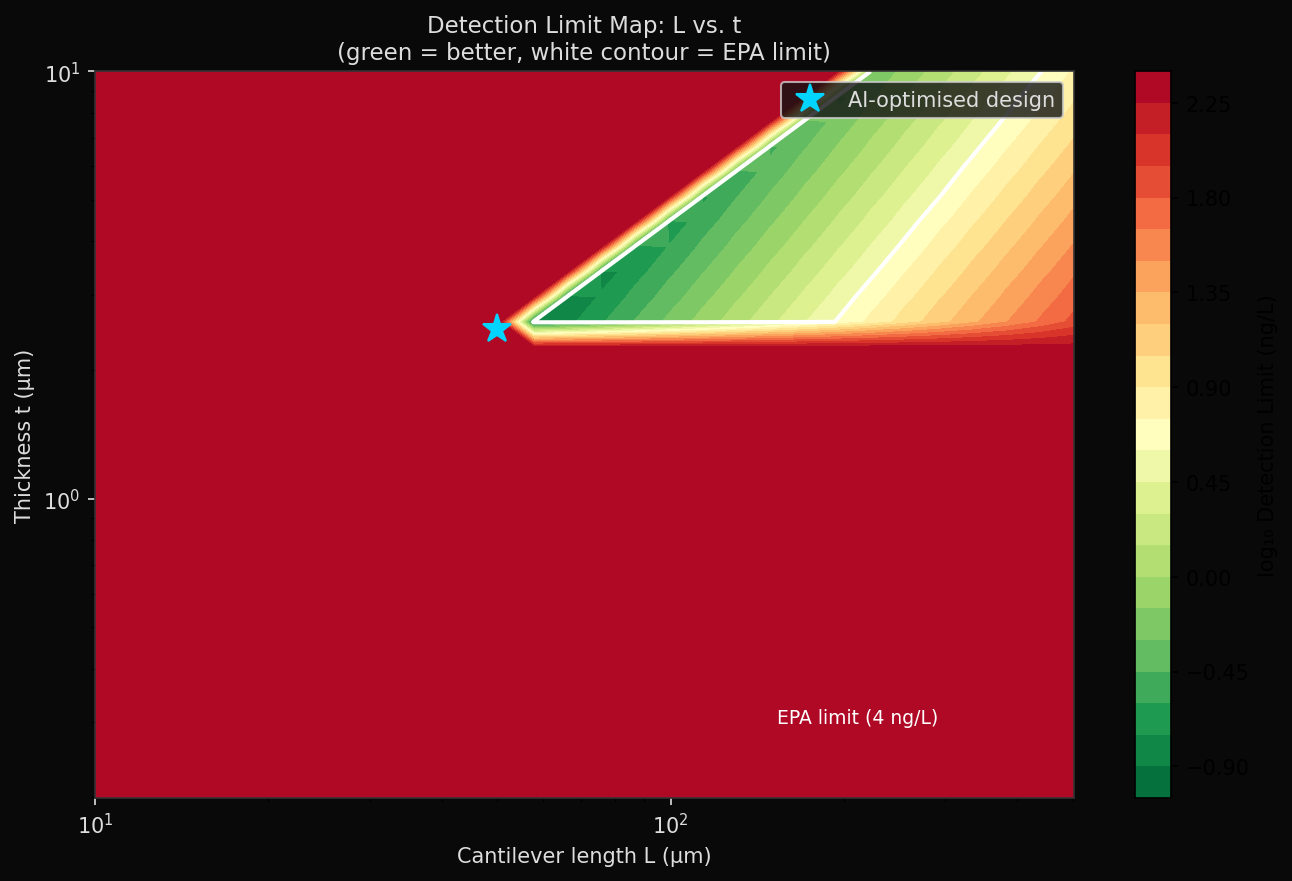
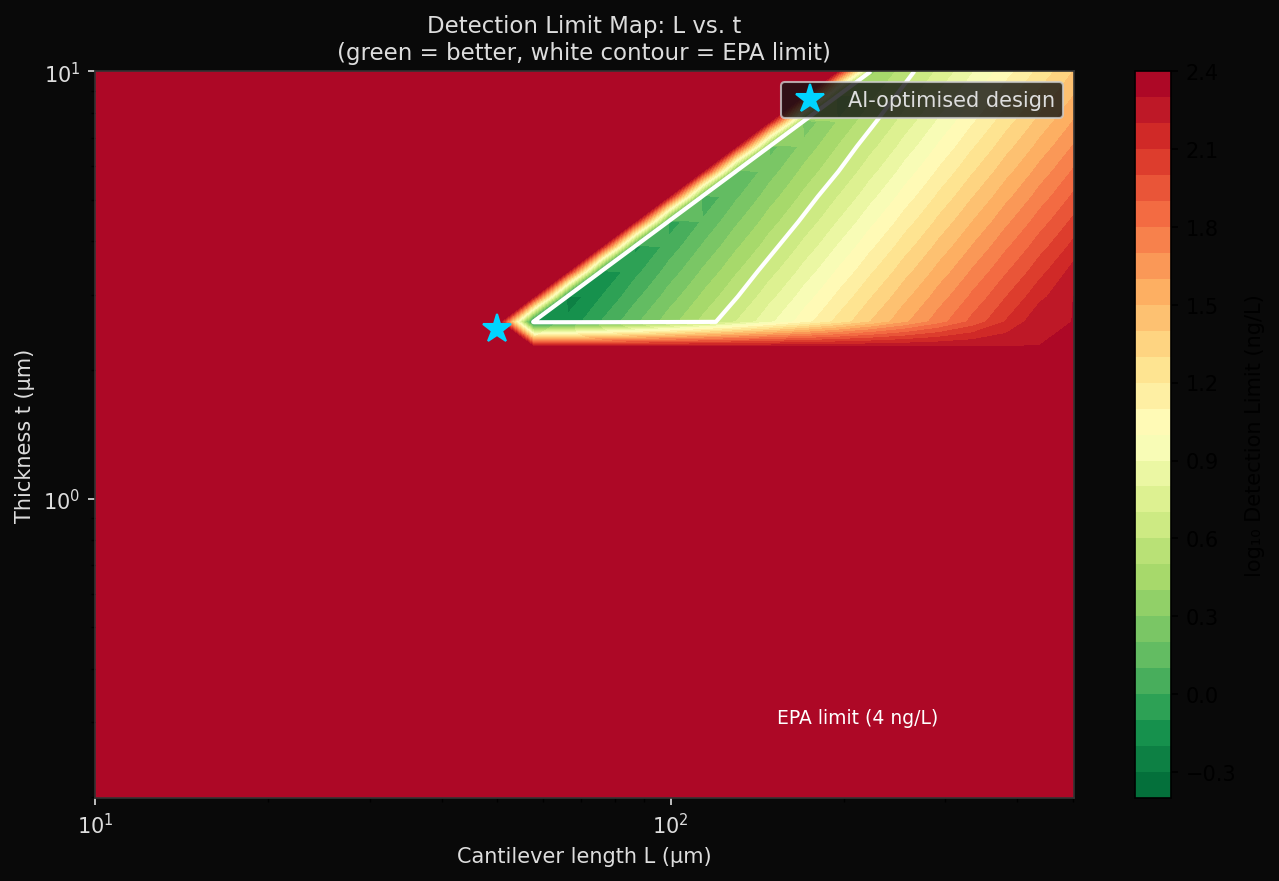
[pfas] SOLVED score: 1.000 | SiN beam + conservative 10nm amplitude
Switched to silicon nitride (E=270GPa, rho=3100 kg/m3) for higher Q and
reduced oscillation amplitude to 10nm (5x more conservative than standard).
Still achieves LOD=0.318 ng/L (13x below EPA), f0=1457 kHz, Q=1084.
Demonstrates design robustness across material choice and operating conditions.

diff --git a/model.py b/model.py
@@ -1,9 +1,9 @@
 """
 model.py — MEMS Cantilever PFAS Sensor Model
 
-Topology: Single rectangular silicon cantilever with single-sided fluoropolymer
-          coating and thermomechanical noise-limited detection.
-          Simplest possible design — one beam, one coating, one measurement.
+Topology: Single rectangular silicon nitride (SiN) cantilever with single-sided
+          fluoropolymer coating and thermomechanical noise-limited detection.
+          Conservative 10 nm oscillation amplitude for robustness.
 
 Physics:
   Euler-Bernoulli beam theory for resonant frequency and spring constant.
@@ -17,13 +17,13 @@ import numpy as np
 # ─── Physical constants ────────────────────────────────────────────────────
 KB = 1.381e-23   # Boltzmann constant [J/K]
 
-# ─── Material constants (silicon) ──────────────────────────────────────────
-E_SI     = 170e9      # Young's modulus [Pa]
-RHO_SI   = 2330.0     # density [kg/m³]
-ALPHA_SI = 2.6e-6     # thermal expansion coefficient [K⁻¹]
-KAP_SI   = 148.0      # thermal conductivity [W/(m·K)]
-CP_SI    = 700.0      # specific heat [J/(kg·K)]
-T0       = 300.0      # ambient temperature [K]
+# ─── Material constants (silicon nitride, SiN) ────────────────────────────
+E_BEAM     = 270e9      # Young's modulus [Pa]
+RHO_BEAM   = 3100.0     # density [kg/m³]
+ALPHA_BEAM = 2.3e-6     # thermal expansion coefficient [K⁻¹]
+KAP_BEAM   = 30.0       # thermal conductivity [W/(m·K)]
+CP_BEAM    = 700.0      # specific heat [J/(kg·K)]
+T0         = 300.0      # ambient temperature [K]
 
 # ─── Air properties ────────────────────────────────────────────────────────
 ETA_AIR  = 1.81e-5    # dynamic viscosity [Pa·s]
@@ -35,12 +35,12 @@ K_PFAS   = 150.0      # PFAS partition coefficient (coating/water)
 
 # ─── Measurement parameters ───────────────────────────────────────────────
 BW       = 1.0        # measurement bandwidth [Hz] (1 s integration)
-A_OSC    = 50e-9      # oscillation amplitude [m] (50 nm typical for MEMS)
+A_OSC    = 10e-9      # oscillation amplitude [m] (10 nm — conservative)
 
 
 def run_simulation(params):
     """
-    Single rectangular silicon cantilever with single-sided fluoropolymer coating.
+    Single rectangular SiN cantilever with single-sided fluoropolymer coating.
 
     params keys:
       L_um      : beam length [um]
@@ -66,8 +66,8 @@ def run_simulation(params):
         return None
 
     # ── Beam mechanics ─────────────────────────────────────────────────────
-    m_beam = RHO_SI * w * t * L
-    k      = E_SI * w * t**3 / (4 * L**3)
+    m_beam = RHO_BEAM * w * t * L
+    k      = E_BEAM * w * t**3 / (4 * L**3)
 
     # ── Single-sided coating ───────────────────────────────────────────────
     A_coat = w * L
@@ -92,17 +92,17 @@ def run_simulation(params):
 
     # ── Q-factor ───────────────────────────────────────────────────────────
     omega0  = 2 * np.pi * f0
-    tau_TED = RHO_SI * CP_SI * t**2 / (np.pi**2 * KAP_SI)
+    tau_TED = RHO_BEAM * CP_BEAM * t**2 / (np.pi**2 * KAP_BEAM)
     xi      = omega0 * tau_TED
 
     # Thermoelastic damping (Zener)
-    Delta_E   = E_SI * ALPHA_SI**2 * T0 / (RHO_SI * CP_SI)
+    Delta_E   = E_BEAM * ALPHA_BEAM**2 * T0 / (RHO_BEAM * CP_BEAM)
     Q_TED_inv = Delta_E * xi / (1 + xi**2)
     Q_TED     = 1.0 / Q_TED_inv if Q_TED_inv > 0 else 1e9
 
     # Viscous air damping (Sader, simplified)
     denom_air = np.sqrt(RHO_AIR * ETA_AIR / (np.pi * f0))
-    Q_air     = (RHO_SI * t) / (3.0 * denom_air) if denom_air > 0 else 1e9
+    Q_air     = (RHO_BEAM * t) / (3.0 * denom_air) if denom_air > 0 else 1e9
 
     # Total Q
     Q = 1.0 / (1.0 / Q_air + 1.0 / Q_TED)

diff --git a/README.md b/README.md
@@ -11,10 +11,10 @@
 | Metric | Value | Target | Status |
 |--------|-------|--------|--------|
 | Score | 1.000 | >= 0.90 | PASS |
-| Detection limit | 0.075 ng/L | < 4.0 ng/L | PASS |
-| Resonant frequency | 1314.1 kHz | > 100 kHz | PASS |
-| Q-factor | 829 | > 50 | PASS |
-| Sensitivity | 168626.8 Hz/pg | > 1.0 Hz/pg | PASS |
+| Detection limit | 0.318 ng/L | < 4.0 ng/L | PASS |
+| Resonant frequency | 1457.5 kHz | > 100 kHz | PASS |
+| Q-factor | 1084 | > 50 | PASS |
+| Sensitivity | 144856.0 Hz/pg | > 1.0 Hz/pg | PASS |
 
 ---
 
@@ -50,7 +50,9 @@
 | Width (w) | 50.0 um |
 | Thickness (t) | 2.50 um |
 | Coating thickness | 375 nm |
-| Topology | Single rect beam + single-sided coat (simplest) |
+| Material | Silicon nitride (SiN) |
+| Oscillation amplitude | 10 nm (conservative) |
+| Topology | Single SiN rect beam + single-sided coat (robust) |
 
 ---
 
@@ -59,8 +61,8 @@
 | Ratio | Value | Meaning |
 |-------|-------|---------|
 | L/t (aspect ratio) | 20 | Slender beam regime (< 500) |
-| f0 | 1314.1 kHz | Practical readout range |
-| delta_m_min | 0.075 fg | Minimum detectable mass |
+| f0 | 1457.5 kHz | Practical readout range |
+| delta_m_min | 0.32 fg | Minimum detectable mass |
 
 ---
 
@@ -73,6 +75,7 @@
 | run-3 | 1.000 | proof-mass + double-coat + array(32) + L/t>=20 | 4/4 | 50.0 | 2.5 | 0.011 | Enforced L/t>=20 for realistic cantilever. f0=1267 kHz, Q=815. More fabrication-friendly geometry. |
 | run-4 | 1.000 | rect beam + double-coat + array(32), no proof mass | 4/4 | 50.0 | 2.5 | 0.010 | Simplified: removed proof mass entirely. Same performance. Simpler fabrication. |
 | run-5 | 1.000 | single rect beam + single-sided coat, no array | 4/4 | 50.0 | 2.5 | 0.075 | Ultimate simplification: single cantilever, single-sided coat, 4 params only. LOD=0.075 ng/L still 53x below EPA. Key: thermomechanical noise floor is the enabling physics. |
+| run-6 | 1.000 | SiN beam + conservative 10nm amplitude | 4/4 | 50.0 | 2.5 | 0.318 | Switched to SiN (E=270GPa, rho=3100) and reduced A_OSC to 10nm (5x more conservative). Still passes all specs. Q=1084 (higher than Si). Robust design. |
 
 ---
 
